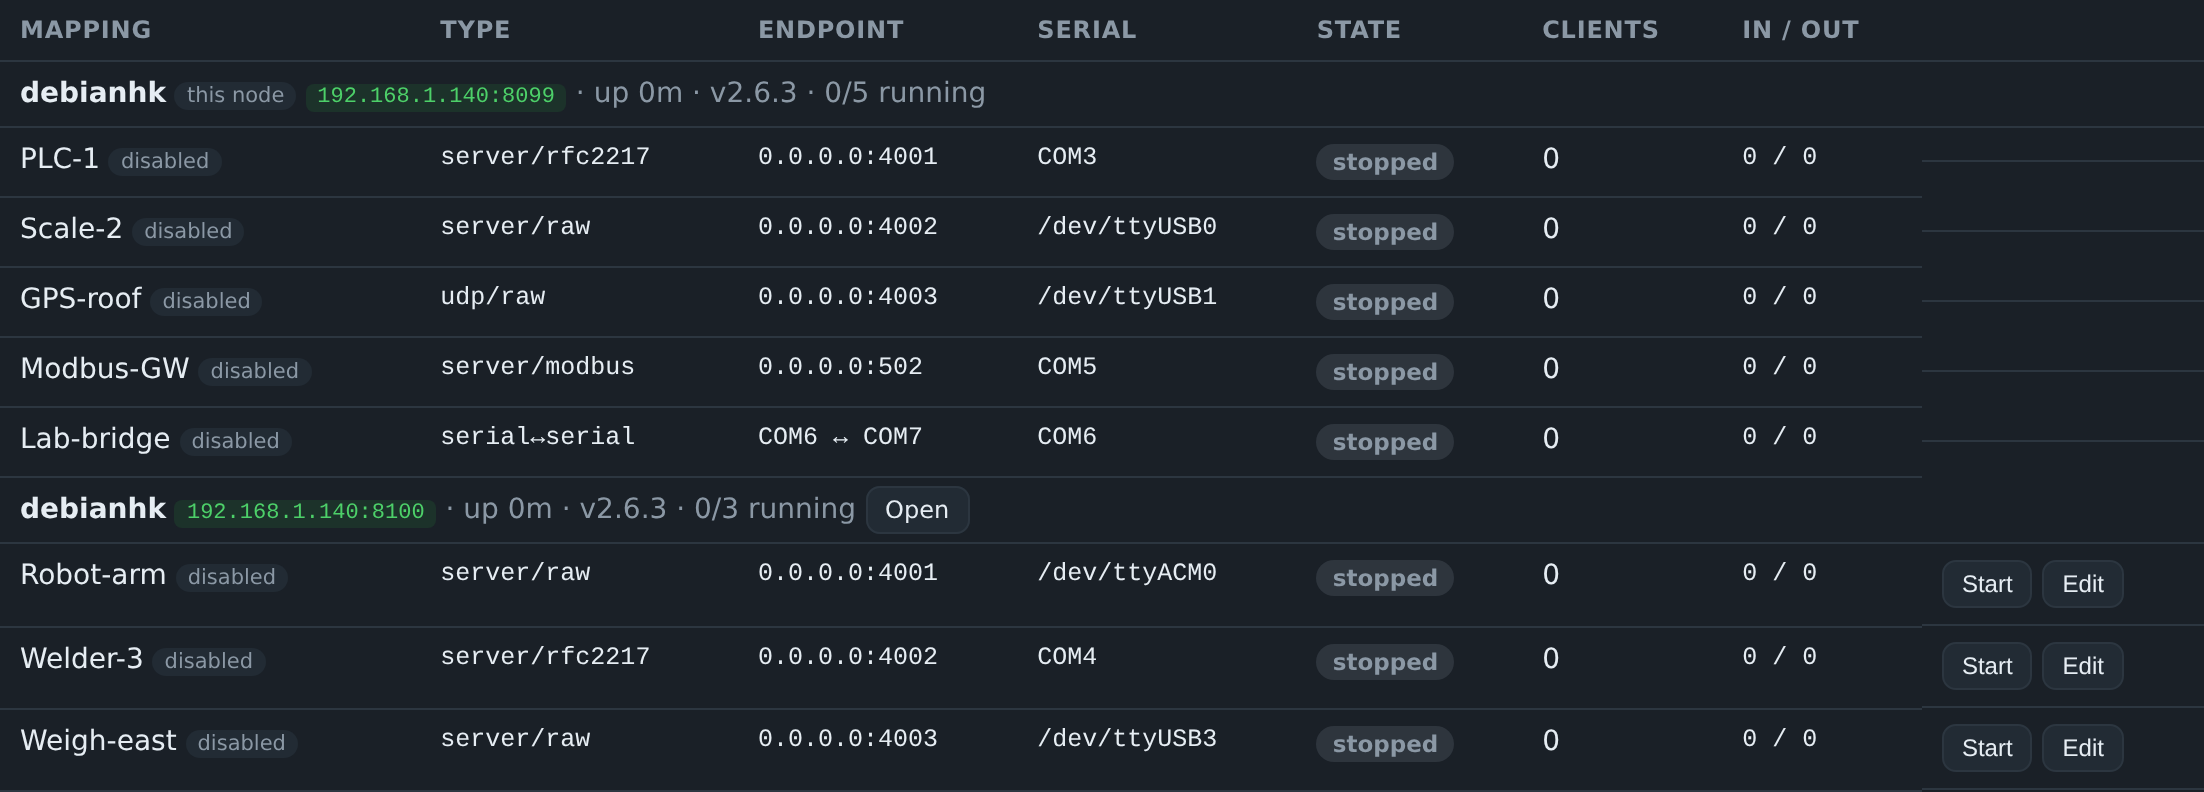
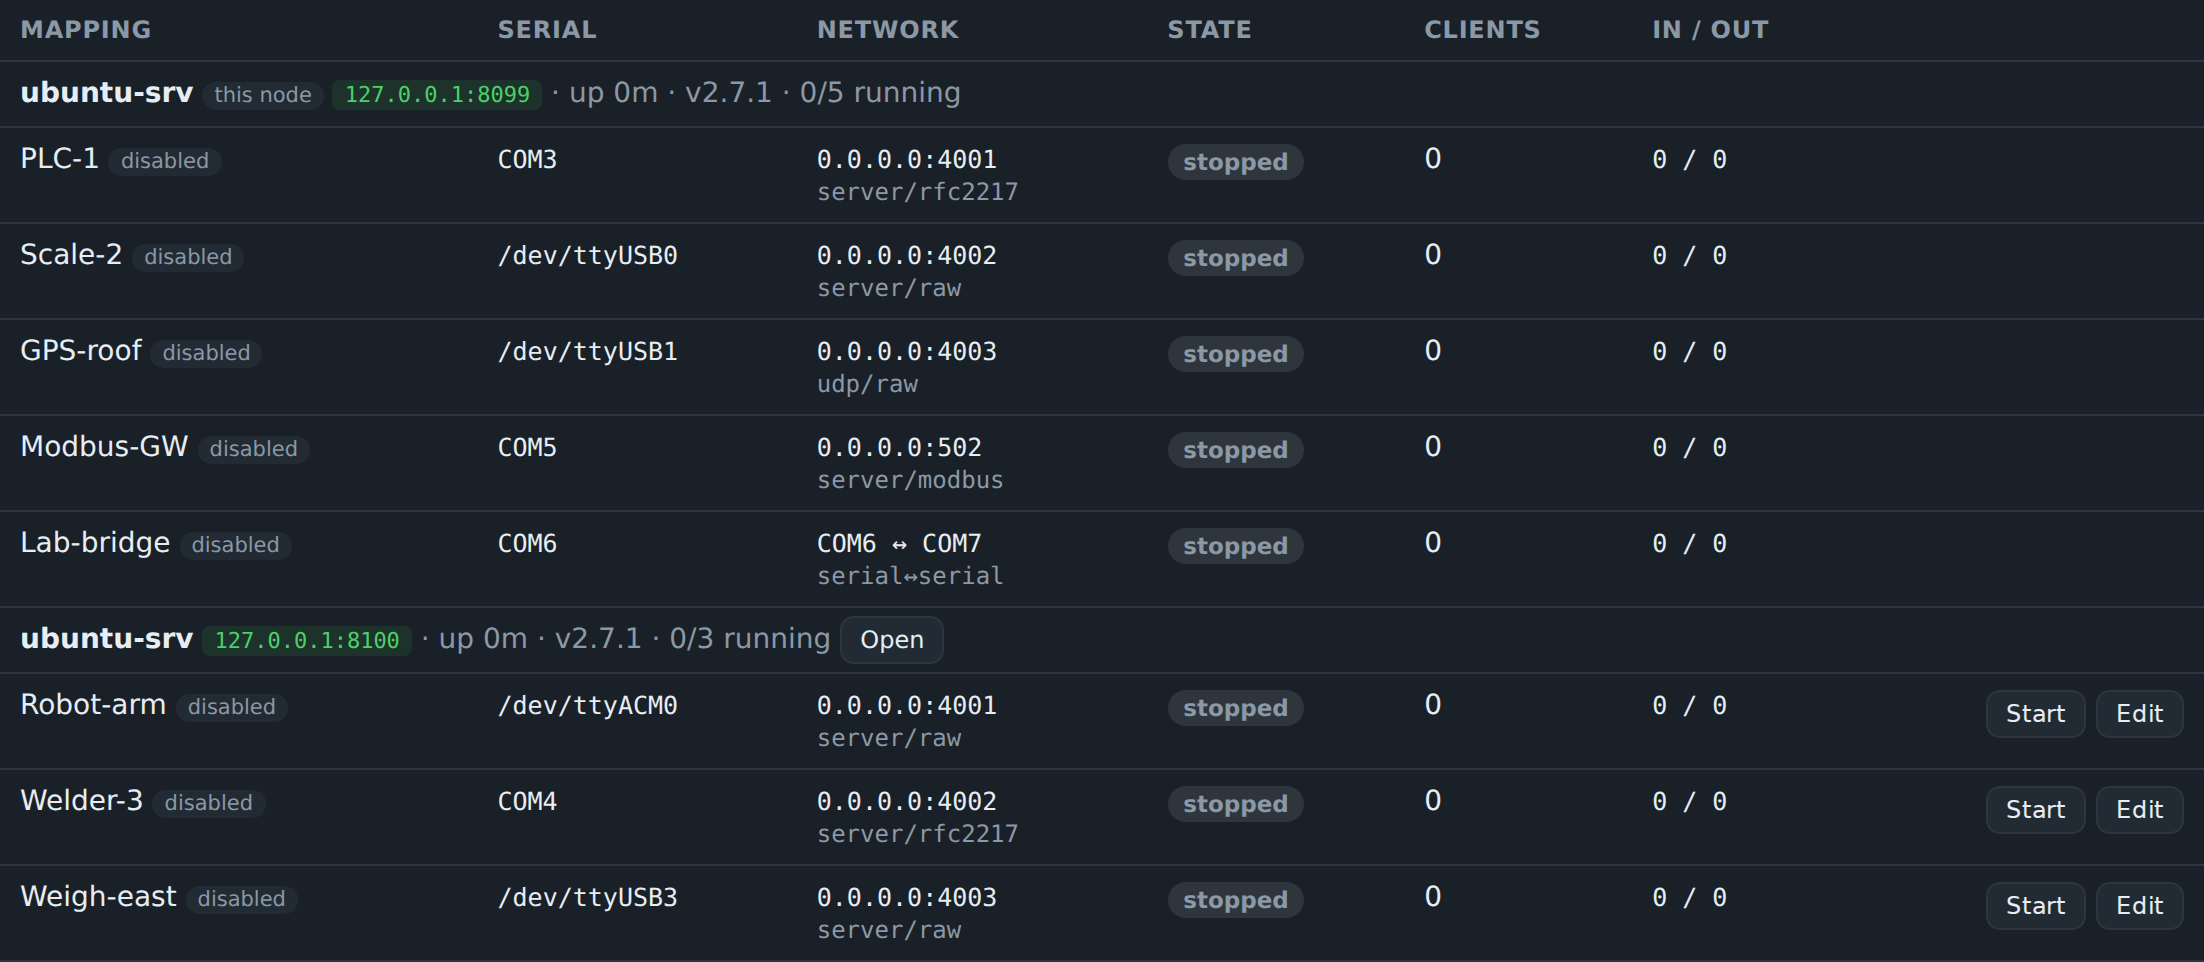
fix(ui): row buttons stay on one line when there is room
The first cut capped the button box at 13.5rem, so even short names on a wide
screen got two button rows. The buttons now come in two groups — run controls
(Start/Stop, Restart, Edit) and the rest (Log, Monitor, Copy, Delete) — that
never split internally: one line when the row has room (as before #26), group
under group when it doesn't, never a lone button on its own row. The groups'
widths alone set the column's minimum, so the width hints are gone.

Dashboard / cluster / mapping-form screenshots regenerated (v2.7.1, new table).

diff --git a/app/web/templates/_mappings_body.html b/app/web/templates/_mappings_body.html
@@ -48,22 +48,26 @@
       <td class="mono nowrap" data-label="In / Out">{{ (st.bytes_in if st else 0) }} / {{ (st.bytes_out if st else 0) }}</td>
       <td class="col-actions">
         <div class="row-actions">
-        {% if can_edit %}
-          {% if m.enabled %}
+          {% if can_edit %}
+          <div class="btn-group">
+            {% if m.enabled %}
             <button class="btn sm" hx-post="/api/mappings/{{ m.id }}/stop" hx-swap="none">Stop</button>
             <button class="btn sm" hx-post="/api/mappings/{{ m.id }}/restart" hx-swap="none">Restart</button>
-          {% else %}
+            {% else %}
             <button class="btn sm" hx-post="/api/mappings/{{ m.id }}/start" hx-swap="none">Start</button>
+            {% endif %}
+            <button class="btn sm" hx-get="/api/mappings/{{ m.id }}/form" hx-target="#form-panel" hx-swap="innerHTML">Edit</button>
+          </div>
           {% endif %}
-          <button class="btn sm" hx-get="/api/mappings/{{ m.id }}/form" hx-target="#form-panel" hx-swap="innerHTML">Edit</button>
-        {% endif %}
-          <button class="btn sm" hx-get="/api/mappings/{{ m.id }}/log" hx-target="#form-panel" hx-swap="innerHTML">Log</button>
-          <button class="btn sm" hx-get="/api/mappings/{{ m.id }}/console-view" hx-target="#form-panel" hx-swap="innerHTML">Monitor</button>
-        {% if can_edit %}
-          <button class="btn sm" hx-post="/api/mappings/{{ m.id }}/duplicate" hx-swap="none">Copy</button>
-          <button class="btn sm danger" hx-delete="/api/mappings/{{ m.id }}"
-                  hx-confirm="Delete mapping “{{ m.name }}”?" hx-swap="none">Delete</button>
-        {% endif %}
+          <div class="btn-group">
+            <button class="btn sm" hx-get="/api/mappings/{{ m.id }}/log" hx-target="#form-panel" hx-swap="innerHTML">Log</button>
+            <button class="btn sm" hx-get="/api/mappings/{{ m.id }}/console-view" hx-target="#form-panel" hx-swap="innerHTML">Monitor</button>
+            {% if can_edit %}
+            <button class="btn sm" hx-post="/api/mappings/{{ m.id }}/duplicate" hx-swap="none">Copy</button>
+            <button class="btn sm danger" hx-delete="/api/mappings/{{ m.id }}"
+                    hx-confirm="Delete mapping “{{ m.name }}”?" hx-swap="none">Delete</button>
+            {% endif %}
+          </div>
         </div>
       </td>
     </tr>

diff --git a/app/web/static/app.css b/app/web/static/app.css
@@ -86,11 +86,10 @@ table.grid tr:hover td { background: rgba(255,255,255,.02); }
 table.list { min-width: 52rem; }     /* mappings + cluster: narrower than this, scroll */
 table.ports { min-width: 40rem; }
 .sub { color: var(--muted); font-size: 12px; margin-top: 2px; }
-td.col-actions { width: 1%; }
-.row-actions {
-  display: flex; flex-wrap: wrap; justify-content: flex-end; gap: 5px;
-  width: max-content; max-width: 13.5rem; margin-left: auto;
-}
+/* row buttons come in two groups (run controls | log, monitor, copy, delete): one
+   line when the row has room, otherwise group under group — never a lone button */
+.row-actions { display: flex; flex-wrap: wrap; justify-content: flex-end; gap: 5px; }
+.btn-group { display: flex; gap: 5px; }
 /* header button groups (log / console / form) */
 .actions { display: flex; flex-wrap: wrap; align-items: center; justify-content: flex-end; gap: 5px; margin-left: auto; }
 
@@ -199,6 +198,5 @@ legend { color: var(--muted); font-size: 11px; text-transform: uppercase; letter
     color: var(--muted); font-family: system-ui, -apple-system, Segoe UI, Roboto, Helvetica, Arial, sans-serif;
     font-size: 11px; font-weight: 600; text-transform: uppercase; letter-spacing: .4px;
   }
-  table.stackable td.col-actions { width: auto; }
-  table.stackable .row-actions { width: auto; max-width: none; justify-content: flex-start; margin: 4px 0 0; }
+  table.stackable .row-actions { justify-content: flex-start; margin-top: 4px; }
 }

diff --git a/app/web/templates/_cluster_body.html b/app/web/templates/_cluster_body.html
@@ -42,7 +42,7 @@
       <td class="mono nowrap" data-label="In / Out">{{ m.bytes_in }} / {{ m.bytes_out }}</td>
       <td class="col-actions">
         {% if can_edit and not n.self %}
-        <div class="row-actions">
+        <div class="row-actions"><div class="btn-group">
           {% set vals = '{"scheme":"' ~ n.scheme ~ '","host":"' ~ n.ip ~ '","port":"' ~ n.port ~ '","mid":"' ~ m.id ~ '","action":"' %}
           {% if m.enabled %}
             <button class="btn sm" hx-post="/api/cluster/control-peer" hx-vals='{{ vals }}stop"}' hx-swap="none">Stop</button>
@@ -51,7 +51,7 @@
             <button class="btn sm" hx-post="/api/cluster/control-peer" hx-vals='{{ vals }}start"}' hx-swap="none">Start</button>
           {% endif %}
           <button class="btn sm" hx-get="/api/cluster/peer-form?scheme={{ n.scheme }}&host={{ n.ip }}&port={{ n.port }}&mid={{ m.id }}" hx-target="#form-panel" hx-swap="innerHTML">Edit</button>
-        </div>
+        </div></div>
         {% endif %}
       </td>
     </tr>
